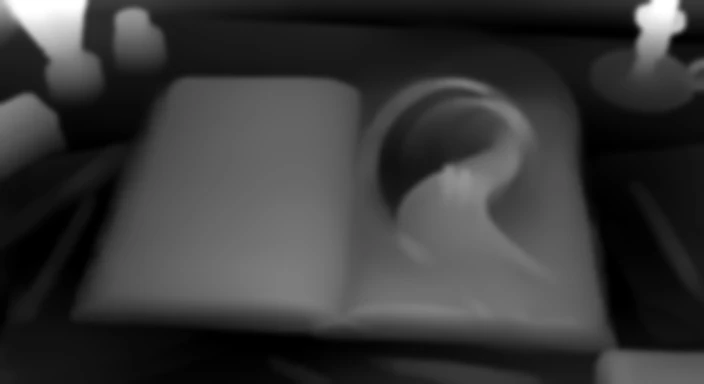
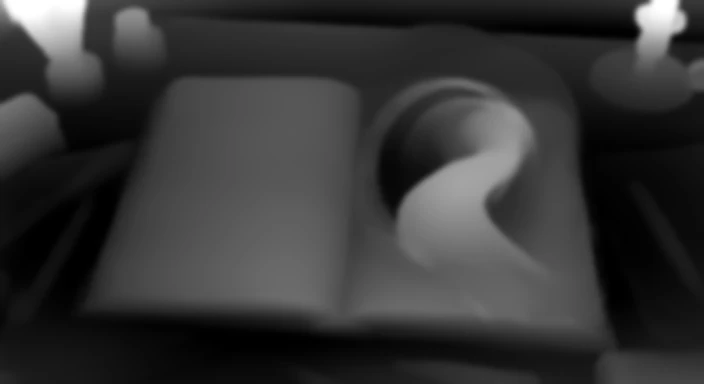
Upside-Down World p7: new light-tunnel picture; kids cut out and walking up the glowing path into the light, swirling tunnel streaks, breathing core glow, dust, 2x upscale
Claude-Session: https://claude.ai/code/session_01BFtifSTdmWYaAK88ECs5PE

diff --git a/books/upside-down-world/index.html b/books/upside-down-world/index.html
@@ -108,9 +108,9 @@ const audio=new Audio();audio.preload='auto';
    adds a gentle breathing sway to the raised parts, and shimmers their light. */
 const VS='attribute vec2 p;varying vec2 v;void main(){v=p*.5+.5;v.y=1.-v.y;gl_Position=vec4(p,0.,1.);}';
 const FS=`precision highp float;varying vec2 v;
-uniform sampler2D tA,dA,tB,dB;uniform float mixv,t,sA,sB,dimA,dimB,windA,windB;uniform vec2 par,oA,oB;uniform vec4 hairA,hairB;
+uniform sampler2D tA,dA,tB,dB;uniform float mixv,t,sA,sB,dimA,dimB,windA,windB;uniform vec2 par,oA,oB;uniform vec4 hairA,hairB,swA,swB;
 float mask(vec2 q){return smoothstep(.30,.40,q.x)*smoothstep(.97,.90,q.x)*smoothstep(.95,.85,q.y);}
-vec3 live(sampler2D tx,sampler2D dx,vec2 uv,float s,vec2 o,float dim,float wind,vec4 hair){
+vec3 live(sampler2D tx,sampler2D dx,vec2 uv,float s,vec2 o,float dim,float wind,vec4 hair,vec4 sw){
   vec2 q=o+(uv-o)/s;
   float m=mask(q);vec2 dir=par*.011*(.35+.65*m)+m*vec2(sin(t*.85+q.y*9.+q.x*2.),cos(t*.67+q.x*7.))*.0022;
   float rl=smoothstep(.14,1.,texture2D(dx,q).r);
@@ -128,11 +128,18 @@ vec3 live(sampler2D tx,sampler2D dx,vec2 uv,float s,vec2 o,float dim,float wind,
   if(sp>0.){float fs=sp*smoothstep(.25,.75,rl)*smoothstep(.60,.46,q.y)*smoothstep(.42,.5,q.x)*smoothstep(.93,.86,q.x);
     float gq=max(.15,.55+.5*sin(t*.38)+.3*sin(t*1.25+2.));
     w+=vec2(sin(t*.9+q.y*14.+q.x*5.)*.0030+sin(t*1.8+q.x*26.+q.y*9.)*.0012,cos(t*.75+q.x*12.+q.y*4.)*.0024+sin(t*1.5+q.y*21.)*.0010)*fs*gq;}
-  vec3 c=texture2D(tx,q2-w).rgb;
+  /* light-tunnel swirl: the streaks ripple around the bright core in slow waves; the core breathes */
+  float gp=0.;
+  if(sw.z>0.){vec2 d=q-sw.xy;d.x*=1.833;float r=length(d);
+    float fall=smoothstep(.03,.12,r)*smoothstep(.62,.32,r);
+    float th=sw.z*(sin(t*.55-r*16.)+.45*sin(t*.9-r*31.+1.7))*fall;
+    vec2 dr=vec2(d.x*cos(th)-d.y*sin(th),d.x*sin(th)+d.y*cos(th));w+=vec2((d.x-dr.x)/1.833,d.y-dr.y);
+    gp=exp(-r*r/.0035)*(.10+.07*sin(t*1.25)+.03*sin(t*3.1+1.));}
+  vec3 c=texture2D(tx,q2-w).rgb;c+=vec3(1.,.8,.48)*gp;
   float sh=m*r2*(.055*sin(t*1.6+q.x*13.+q.y*6.)+.035*sin(t*2.7-q.y*17.));
   c*=1.+sh;c*=1.-dim*.25*smoothstep(.40,.56,q.x);
   return c;}
-void main(){vec3 a=live(tA,dA,v,sA,oA,dimA,windA,hairA);vec3 b=live(tB,dB,v,sB,oB,dimB,windB,hairB);
+void main(){vec3 a=live(tA,dA,v,sA,oA,dimA,windA,hairA,swA);vec3 b=live(tB,dB,v,sB,oB,dimB,windB,hairB,swB);
   vec3 c=mix(a,b,smoothstep(0.,1.,mixv));c+=vec3(1.,.82,.5)*.10*sin(3.14159*mixv);
   gl_FragColor=vec4(c,1.);}`;
 let gl=null,prog=null,U={},tex={},slotA=null,slotB=null,fadeT0=0,fading=false;
@@ -141,7 +148,7 @@ function sh(type,src){const s=gl.createShader(type);gl.shaderSource(s,src);gl.co
 if(gl){try{prog=gl.createProgram();gl.attachShader(prog,sh(gl.VERTEX_SHADER,VS));gl.attachShader(prog,sh(gl.FRAGMENT_SHADER,FS));gl.linkProgram(prog);gl.useProgram(prog);
   const b=gl.createBuffer();gl.bindBuffer(gl.ARRAY_BUFFER,b);gl.bufferData(gl.ARRAY_BUFFER,new Float32Array([-1,-1,1,-1,-1,1,1,1]),gl.STATIC_DRAW);
   const loc=gl.getAttribLocation(prog,'p');gl.enableVertexAttribArray(loc);gl.vertexAttribPointer(loc,2,gl.FLOAT,false,0,0);
-  ['tA','dA','tB','dB','mixv','t','sA','sB','dimA','dimB','par','oA','oB','windA','windB','hairA','hairB'].forEach(n=>U[n]=gl.getUniformLocation(prog,n));
+  ['tA','dA','tB','dB','mixv','t','sA','sB','dimA','dimB','par','oA','oB','windA','windB','hairA','hairB','swA','swB'].forEach(n=>U[n]=gl.getUniformLocation(prog,n));
   [0,1,2,3].forEach(i=>gl.uniform1i(U[['tA','dA','tB','dB'][i]],i));}catch(e){console.warn(e);gl=null;}}
 if(!gl)document.body.classList.add('nogl');
 function loadTex(src){
@@ -160,6 +167,7 @@ function loadVid(name){if(vids[name])return vids[name];const v=document.createEl
   const o={v,t:null,ok:false};v.addEventListener('playing',()=>{o.ok=true;});vids[name]=o;return o;}
 function pageTex(p){if(p.video)return {c:loadTex('img/'+p.img+'.webp'),d:p.relief?loadTex('img/'+p.img+'-d.webp'):black(),vid:loadVid(p.video)};return {c:loadTex('img/'+p.img+'.webp'),d:loadTex('img/'+p.img+'-d.webp')};}
 const ORIGIN={kb:[.72,.55],shade:[.80,.74]};
+function swv(p){return p.swirl?[p.swirl[0]/1408,p.swirl[1]/768,p.swirl[2],0]:[0,0,0,0];}
 function kbScale(p,el){const dur=40,x=Math.min(1,el/dur),e=1-Math.pow(1-x,2);return 1+(p.fx==='shade'?.065:.045)*e;}
 
 /* ---------- layout ---------- */
@@ -354,6 +362,16 @@ const MOT={
     if(tt<12.8){if(i!==0)return no;const u=(tt-10.4)/2.4,p=sm(u);return {dx:-3*p,dy:-12*p-Math.abs(Math.sin(tt*4))*(1-p),rot:sw*.6,sx:1-.16*p,sy:1-.16*p,a:1-sm((u-.2)/.8)};}
     if(tt>14.1)return i===2?{dx:0,dy:bob,rot:sw,sx:1,sy:1,a:sm((tt-14.1)/.9)}:no;
     return no;},
+  /* page 7: the kids walk up the glowing path and melt into the light (feet follow the path curve) */
+  walk7(tt){const T=15;tt=((tt%T)+T)%T;const P=[[910,404],[922,380],[940,356],[960,330],[978,308],[993,289]],S=[1,.84,.71,.6,.51,.44],AL=[1,1,.96,.82,.5,0];
+    const sm=x=>{x=Math.max(0,Math.min(1,x));return x*x*(3-2*x);};
+    const fin=tt>14?sm((tt-14)/1):1;
+    if(tt>11.5&&tt<=14)return {dx:0,dy:0,rot:0,sx:1,sy:1,a:0};
+    const u=tt>=14?0:Math.min(1,Math.max(0,(tt-1.2)/10.3));
+    const f=u*(P.length-1),i=Math.min(P.length-2,Math.floor(f)),k=f-i,e=k*k*(3-2*k)*.35+k*.65;
+    const x=P[i][0]+(P[i+1][0]-P[i][0])*e,y=P[i][1]+(P[i+1][1]-P[i][1])*e,sc=S[i]+(S[i+1]-S[i])*e,al=AL[i]+(AL[i+1]-AL[i])*e;
+    const step=tt>=1.2?Math.abs(Math.sin(tt*Math.PI*1.7)):0;
+    return {dx:x-P[0][0],dy:y-P[0][1]-step*1.6*sc,rot:Math.sin(tt*Math.PI*.85)*.022*(tt>=1.2?1:.3),sx:sc,sy:sc,a:al*(tt>14?fin:1)};},
   hide(tt){const T=16;tt=((tt%T)+T)%T;const S=7.0,E=11.6+.85;return {dx:0,dy:0,rot:0,sx:1,sy:1,a:Math.max(0,Math.min(1,(tt-S)/.12,(E-tt)/.12))};},
   head(tt,dir,lag){const T=16;tt=((tt-lag)%T+T)%T;let k=0;
     if(tt>=.8&&tt<1.9)k=ease((tt-.8)/1.1);else if(tt>=1.9&&tt<4.8)k=1;else if(tt>=4.8&&tt<5.9)k=1-ease((tt-4.8)/1.1);
@@ -364,7 +382,7 @@ function drawRig(c,d,L,now,dt,w,h,t,ps,o){
   const p=L._p,dim=p.fx==='shade'?dimS:0;
   (d.rig||[]).forEach(r=>{if(!r.im||!r.im.complete||!r.im.naturalWidth)return;
     const tt=reduce?0:(now-pageT0)/1000;
-    const M=r.motion&&r.motion.startsWith('kf')?MOT.kf(tt,+r.motion[2]):r.motion==='point2'?MOT.point2(tt):r.motion==='point'?MOT.point(tt):r.motion==='hide'?MOT.hide(tt):r.motion==='turn'?MOT.turn(tt):r.motion==='leg'?MOT.leg(tt):r.motion==='headL'?MOT.head(tt,1,0):MOT.head(tt,-1,.18);
+    const M=r.motion==='walk7'?MOT.walk7(tt):r.motion&&r.motion.startsWith('kf')?MOT.kf(tt,+r.motion[2]):r.motion==='point2'?MOT.point2(tt):r.motion==='point'?MOT.point(tt):r.motion==='hide'?MOT.hide(tt):r.motion==='turn'?MOT.turn(tt):r.motion==='leg'?MOT.leg(tt):r.motion==='headL'?MOT.head(tt,1,0):MOT.head(tt,-1,.18);
     const rl=depthAt(p.img,r.depth[0],r.depth[1]),qx=r.pivot[0]/W,qy=r.pivot[1]/H,s2=shiftAt(qx,qy,rl,t),
       px=(o[0]+(qx-o[0])*curS+s2[0])*w,py=(o[1]+(qy-o[1])*curS+s2[1])*h;
     const sh=sm3(.30,.40,qx)*sm3(.97,.90,qx)*sm3(.95,.85,qy)*rl*(.055*Math.sin(t*1.6+qx*13+qy*6)+.035*Math.sin(t*2.7-qy*17)),f=(1+sh)*(1-dim*.25);
@@ -438,7 +456,7 @@ function drawGL(now){
   gl.uniform2f(U.oA,oa[0],oa[1]);gl.uniform2f(U.oB,ob[0],ob[1]);gl.uniform2f(U.par,par[0],par[1]);
   dimS+=((slotB.p.fx==='shade'?1:0)-dimS)*.01;gl.uniform1f(U.dimA,A.p.fx==='shade'?dimS:0);gl.uniform1f(U.dimB,slotB.p.fx==='shade'?dimS:0);
   const hv=p=>p.hair?[p.hair[0]/W,p.hair[1]/H,p.hair[2]/W,p.hair[3]/H]:[0,0,-1,-1];
-  gl.uniform1f(U.windA,A.p.wind?(+A.p.wind||1):0);gl.uniform1f(U.windB,slotB.p.wind?(+slotB.p.wind||1):0);gl.uniform4fv(U.hairA,hv(A.p));gl.uniform4fv(U.hairB,hv(slotB.p));
+  gl.uniform1f(U.windA,A.p.wind?(+A.p.wind||1):0);gl.uniform1f(U.windB,slotB.p.wind?(+slotB.p.wind||1):0);gl.uniform4fv(U.hairA,hv(A.p));gl.uniform4fv(U.hairB,hv(slotB.p));gl.uniform4fv(U.swA,swv(A.p));gl.uniform4fv(U.swB,swv(slotB.p));
   curPar=par;curS=sb;
   gl.drawArrays(gl.TRIANGLE_STRIP,0,4);
   const L=layers[cur];if(L&&L._kb)L._kb.style.transform='scale('+sb+')';

diff --git a/books/upside-down-world/sprite.js b/books/upside-down-world/sprite.js
@@ -1,2 +1,2 @@
 /* flying objects drawn over a still page: img = transparent sprite, rs = ball radius in the sprite, path = [x,y,radius] per frame at 24 fps in 1408x768 picture pixels */
-window.SPRITES={p01:{img:"img/p01-ball.webp",size:260,rs:104.5,path:[[951.0,390.0,18.5],[946.4,377.6,21.9],[944.8,373.2,22.6],[941.8,364.8,24.4],[938.6,356.8,26.0],[935.2,349.1,27.6],[931.6,342.1,29.2],[927.9,335.5,30.7],[923.8,329.1,32.0],[919.7,322.8,33.5],[915.7,316.9,34.9],[911.8,311.1,36.2],[907.8,305.5,37.6],[903.9,300.1,38.9],[899.8,295.1,40.2],[895.8,290.0,41.2],[891.4,285.1,42.2],[887.2,280.3,43.2],[882.9,275.7,44.3],[878.9,271.0,45.3],[874.9,266.6,46.5],[871.2,262.1,47.8],[867.5,257.7,49.1],[863.9,253.4,50.5],[860.2,249.1,51.8],[856.2,244.7,53.0],[852.4,240.6,54.2],[848.3,236.6,55.3],[843.9,232.6,56.5],[839.6,228.6,57.6],[835.4,224.8,58.6],[830.9,221.0,59.7],[826.3,217.3,60.7],[821.9,213.7,61.5],[817.4,210.1,62.4],[812.8,206.8,63.6],[808.1,203.5,64.5],[803.4,200.3,65.6],[798.8,196.9,66.6],[794.1,193.7,67.7],[789.4,190.4,68.8],[784.8,187.1,70.0],[780.1,183.8,71.3],[775.3,180.6,72.7],[770.3,177.4,74.1],[765.1,174.3,75.5],[759.8,171.1,77.0],[754.7,167.8,78.5],[749.2,164.6,80.0],[743.7,161.4,81.3],[738.1,157.9,82.7],[732.6,154.6,84.0]]},p02:{img:"img/p01-ball.webp",size:260,rs:104.5,kind:"lob",from:[1008,538,9],to:[1040,212,4.2],apex:170,rig:[{img:"img/p02-leg.webp",box:[960,515,60,60],pivot:[987,531],depth:[988,545],motion:"leg"}]},p03:{rig:[{img:"img/p03-leo.webp",box:[906,462,52,56],pivot:[932,504],depth:[932,495],motion:"headL"},{img:"img/p03-sam.webp",box:[946,475,52,56],pivot:[972,515],depth:[972,505],motion:"headS"}]},p03s:{img:"img/p01-ball.webp",size:260,rs:104.5,kind:"hops",ground:true,rest:1.6,start:[920.3,488.6,14.5],du:[1.25,.42,.3],grow:.5,bend:-62,hops:[[896,197,9.5,175],[892,187,8.5,15],[879,181,7.5,6]],to:[879,181,7.5]},p03t:{rig:[{img:"img/p03-turn.webp",box:[888,468,114,140],pivot:[945,538],depth:[945,540],motion:"turn"}]},p05p:{rig:[{img:"img/p05-point.webp",box:[884,452,118,156],pivot:[943,530],depth:[943,540],motion:"point2"}]},p06k:{rig:[{img:"img/p06-k0.webp",box:[878,423,80,114],pivot:[918.4,478.3],depth:[918.4,508.3],motion:"kf0"},{img:"img/p06-k1.webp",box:[866,417,97,111],pivot:[915.3,473.5],depth:[915.3,503.5],motion:"kf1"},{img:"img/p06-k2.webp",box:[874,472,99,116],pivot:[921.4,531.8],depth:[921.4,561.8],motion:"kf2"}]}};
+window.SPRITES={p01:{img:"img/p01-ball.webp",size:260,rs:104.5,path:[[951.0,390.0,18.5],[946.4,377.6,21.9],[944.8,373.2,22.6],[941.8,364.8,24.4],[938.6,356.8,26.0],[935.2,349.1,27.6],[931.6,342.1,29.2],[927.9,335.5,30.7],[923.8,329.1,32.0],[919.7,322.8,33.5],[915.7,316.9,34.9],[911.8,311.1,36.2],[907.8,305.5,37.6],[903.9,300.1,38.9],[899.8,295.1,40.2],[895.8,290.0,41.2],[891.4,285.1,42.2],[887.2,280.3,43.2],[882.9,275.7,44.3],[878.9,271.0,45.3],[874.9,266.6,46.5],[871.2,262.1,47.8],[867.5,257.7,49.1],[863.9,253.4,50.5],[860.2,249.1,51.8],[856.2,244.7,53.0],[852.4,240.6,54.2],[848.3,236.6,55.3],[843.9,232.6,56.5],[839.6,228.6,57.6],[835.4,224.8,58.6],[830.9,221.0,59.7],[826.3,217.3,60.7],[821.9,213.7,61.5],[817.4,210.1,62.4],[812.8,206.8,63.6],[808.1,203.5,64.5],[803.4,200.3,65.6],[798.8,196.9,66.6],[794.1,193.7,67.7],[789.4,190.4,68.8],[784.8,187.1,70.0],[780.1,183.8,71.3],[775.3,180.6,72.7],[770.3,177.4,74.1],[765.1,174.3,75.5],[759.8,171.1,77.0],[754.7,167.8,78.5],[749.2,164.6,80.0],[743.7,161.4,81.3],[738.1,157.9,82.7],[732.6,154.6,84.0]]},p02:{img:"img/p01-ball.webp",size:260,rs:104.5,kind:"lob",from:[1008,538,9],to:[1040,212,4.2],apex:170,rig:[{img:"img/p02-leg.webp",box:[960,515,60,60],pivot:[987,531],depth:[988,545],motion:"leg"}]},p03:{rig:[{img:"img/p03-leo.webp",box:[906,462,52,56],pivot:[932,504],depth:[932,495],motion:"headL"},{img:"img/p03-sam.webp",box:[946,475,52,56],pivot:[972,515],depth:[972,505],motion:"headS"}]},p03s:{img:"img/p01-ball.webp",size:260,rs:104.5,kind:"hops",ground:true,rest:1.6,start:[920.3,488.6,14.5],du:[1.25,.42,.3],grow:.5,bend:-62,hops:[[896,197,9.5,175],[892,187,8.5,15],[879,181,7.5,6]],to:[879,181,7.5]},p03t:{rig:[{img:"img/p03-turn.webp",box:[888,468,114,140],pivot:[945,538],depth:[945,540],motion:"turn"}]},p05p:{rig:[{img:"img/p05-point.webp",box:[884,452,118,156],pivot:[943,530],depth:[943,540],motion:"point2"}]},p06k:{rig:[{img:"img/p06-k0.webp",box:[878,423,80,114],pivot:[918.4,478.3],depth:[918.4,508.3],motion:"kf0"},{img:"img/p06-k1.webp",box:[866,417,97,111],pivot:[915.3,473.5],depth:[915.3,503.5],motion:"kf1"},{img:"img/p06-k2.webp",box:[874,472,99,116],pivot:[921.4,531.8],depth:[921.4,561.8],motion:"kf2"}]},p07k:{rig:[{img:"img/p07-kids.webp",box:[859.6,324.2,83.1,120.1],pivot:[910,404],depth:[910,395],motion:"walk7"}]}};

diff --git a/books/upside-down-world/story.js b/books/upside-down-world/story.js
@@ -16,7 +16,7 @@ window.STORY={title:"The Upside-Down World",author:"M. A. Mafodh",pages:[
 {img:"p05",sprite:"p06k",box:[362,190,628,390],parts:[
  "Together, they peered into the darkness. \"I'll get it,\" Leo said, trying to sound brave. He got on his hands and knees and crawled under a low-hanging branch.",
  "The air suddenly felt cool and smelled like damp earth and something sweet, like honey. Sam crawled in right behind him, clutching the back of Leo's shirt."]},
-{img:"p06",box:[362,190,700,375],parts:[
+{img:"p06",sprite:"p07k",swirl:[1003,268,.035],dust:true,box:[362,190,700,375],parts:[
  "Inside, it wasn't dark anymore. The space between the roots opened up into a tunnel, but it wasn't made of dirt. The walls shimmered, like they were woven from light. A soft, golden glow pulsed from the other end.",
  "\"Whoa,\" Sam breathed. \"Come on,\" Leo said, his fear turning into a fizz of excitement. \"Let's see.\"",
  "They walked through the glowing tunnel, their sneakers making no sound on the smooth, warm floor. At the other end, they stepped out and both of them gasped."]},
